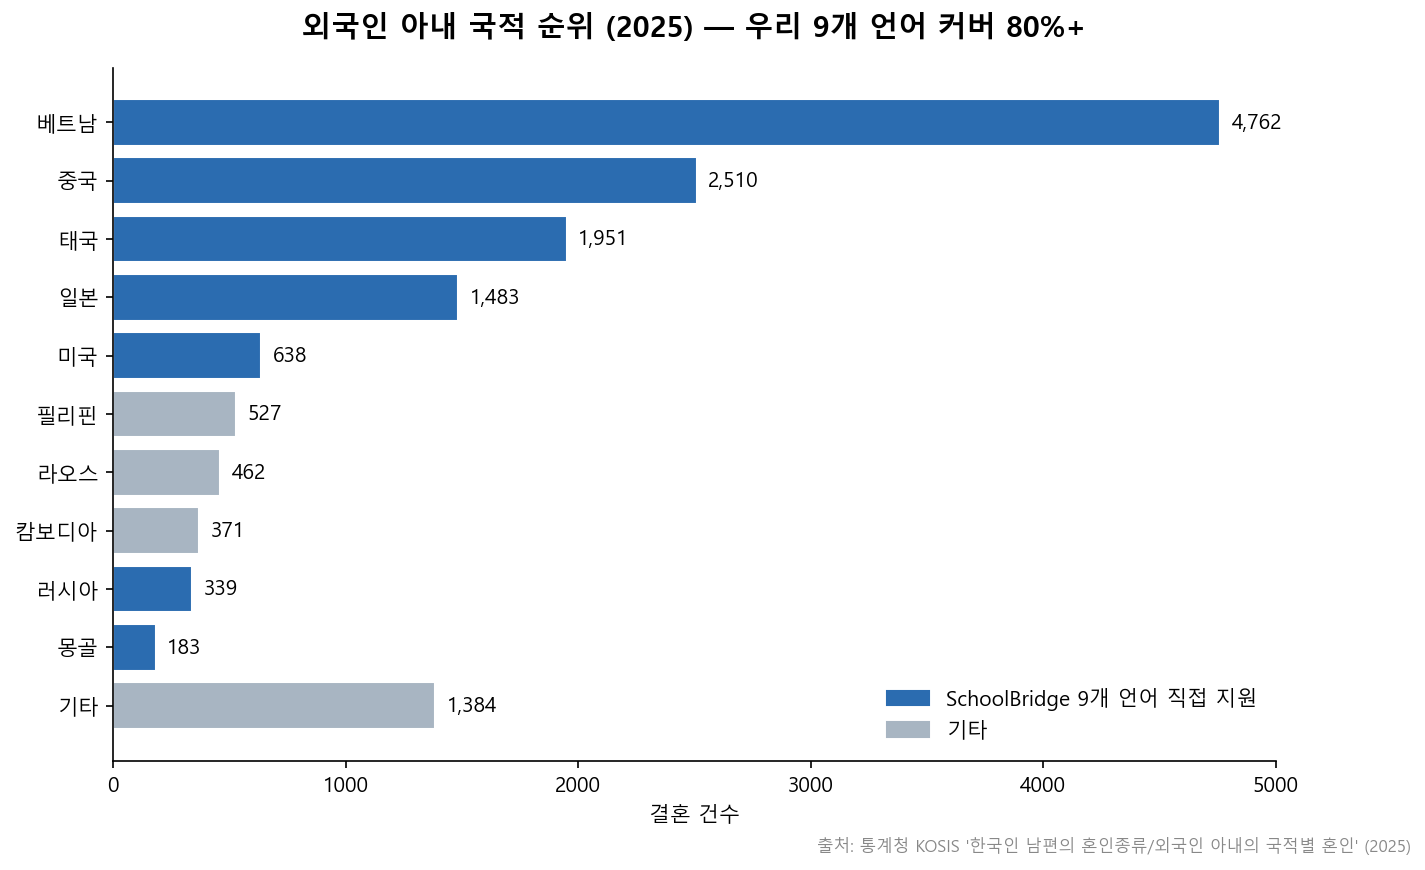
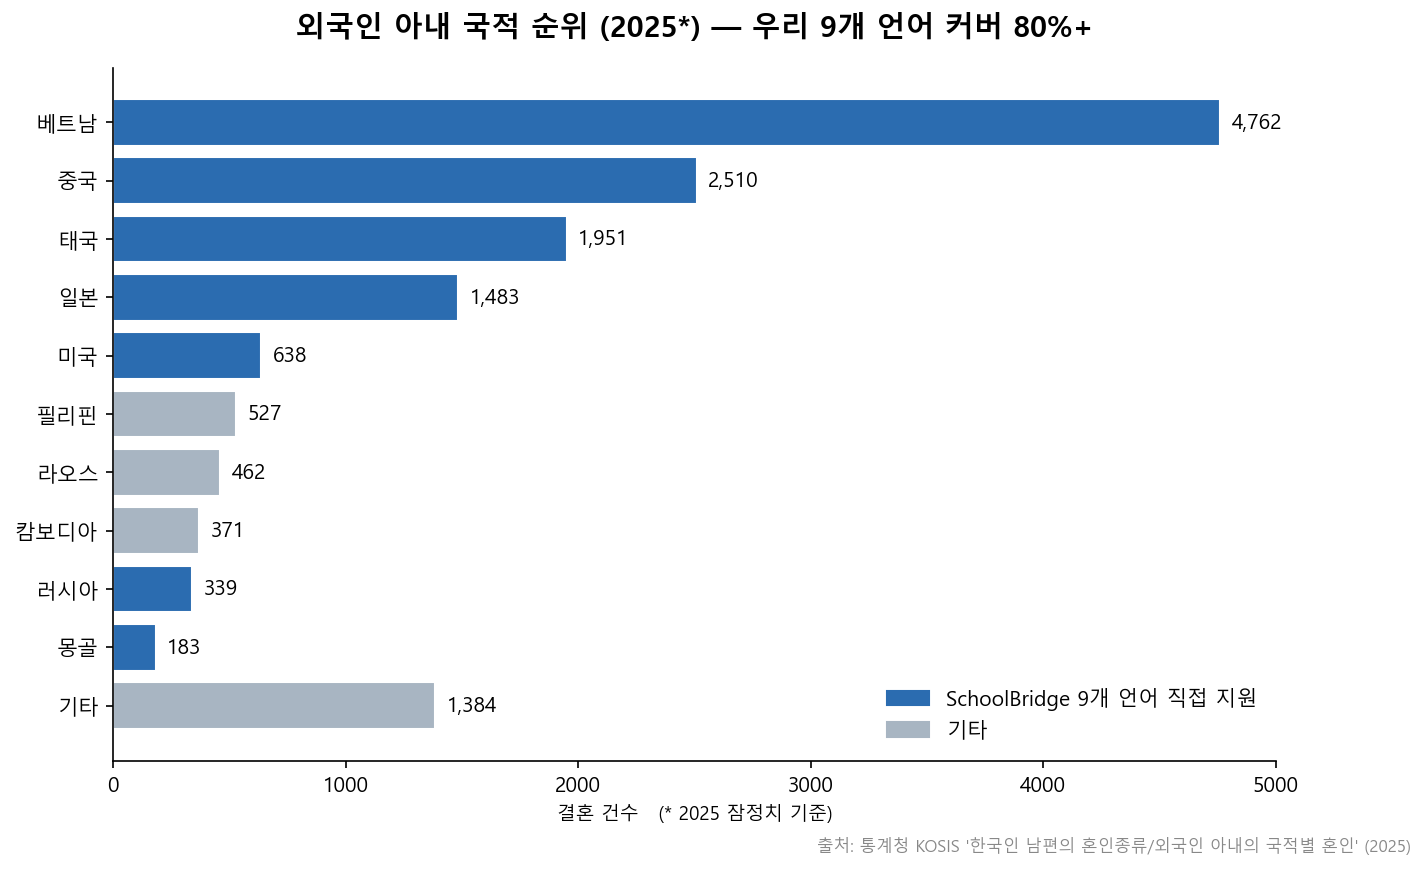
docs(graphs): 1·6·7번 그래프 가독성·균형 개선 + 2025 잠정치 표기
## 1번 결혼 추이
- figsize 10x5 → 11x5.5 (가로 여유)
- X축 라벨 30도 회전 + fontsize 9 (12개 라벨 겹침 해소)
- xlabel 단축 + 2025 잠정치 안내는 우상단 작은 footnote
- annotation 위치 조정 (코로나 화살표 5500, 회복 화살표 19000)
- ylim 위쪽 21000으로 확대 (회복 annotation 공간)

## 2번 국가 순위
- 제목/부제목에 "(2025*)" 잠정치 표시 추가

## 6번 시군구 격차 (TOP5 vs BOTTOM5)
- 막대 그래프 → 표 형식 (좌우 동일 폭 0.40, 가운데 점선 분리)
- 좌측: x=0.05~0.45 (헤더 0.25 가운데)
- 우측: x=0.55~0.95 (헤더 0.75 가운데)
- 가운데 870배 박스 → 하단 한 줄 강조 박스로 이동
- ax 영역 figure 전체 확장 (출처 우하단 정렬 위해)

## 7번 한국어 능력 4영역
- annotation 화살표 target xy=(2, 3.82) → (1.7, 3.50)
  (score 라벨이 막대 위 가운데에 있어 화살표가 가리던 문제 해결)

Changed region(s): [[0.2161, 0.0, 0.494, 0.0621], [0.5249, 0.0, 0.7719, 0.0621], [0.4014, 0.9, 0.5867, 0.9621]]

diff --git a/docs/graphs/generate_stats_graphs.py b/docs/graphs/generate_stats_graphs.py
@@ -63,27 +63,32 @@ def save(fig, name: str, source: str = ""):
 def chart_marriage_trend():
     years = [2014, 2015, 2016, 2017, 2018, 2019, 2020, 2021, 2022, 2023, 2024, 2025]
     counts = [16152, 14677, 14822, 14869, 16608, 17687, 11100, 8985, 12007, 14710, 15624, 15610]
-    fig, ax = plt.subplots(figsize=(10, 5))
+    fig, ax = plt.subplots(figsize=(11, 5.5))
     ax.plot(years, counts, marker="o", linewidth=2.5, color=PRIMARY, markersize=7)
     ax.fill_between(years, counts, alpha=0.10, color=PRIMARY)
     # 코로나 변곡점 강조
     ax.scatter([2020, 2021], [11100, 8985], s=120, color=ACCENT, zorder=5)
-    ax.annotate("코로나 급감\n(-49%)", xy=(2021, 8985), xytext=(2021.3, 6500),
+    ax.annotate("코로나 급감\n(-49%)", xy=(2021, 8985), xytext=(2021.5, 5500),
                 fontsize=10, color=ACCENT,
                 arrowprops=dict(arrowstyle="->", color=ACCENT))
-    ax.annotate("회복", xy=(2024, 15624), xytext=(2023.3, 17500),
+    ax.annotate("회복", xy=(2024, 15624), xytext=(2022.7, 19000),
                 fontsize=10, color=GREEN,
                 arrowprops=dict(arrowstyle="->", color=GREEN))
-    ax.set_title("한국인 남편 × 외국인 아내 결혼 추이 (2014~2025)",
+    ax.set_title("한국인 남편 × 외국인 아내 결혼 추이 (2014~2025*)",
                  fontsize=14, weight="bold", pad=15)
-    ax.set_xlabel("연도")
+    ax.set_xlabel("연도", fontsize=10)
     ax.set_ylabel("결혼 건수")
     ax.set_xticks(years)
-    ax.set_xticklabels([str(y) for y in years], rotation=0)
-    ax.set_ylim(bottom=0)
+    xtick_labels = [f"{y}*" if y == 2025 else str(y) for y in years]
+    ax.set_xticklabels(xtick_labels, rotation=30, ha="right", fontsize=9)
+    ax.set_ylim(0, 21000)  # 위쪽 여유 (회복 annotation용)
     ax.grid(True, alpha=0.3)
     ax.spines["top"].set_visible(False)
     ax.spines["right"].set_visible(False)
+    # 잠정치 안내 — 그래프 영역 우상단 작은 텍스트
+    ax.text(0.02, 0.97, "* 2025: 잠정치 (확정치는 2026년 8~9월 공표 예정)",
+            transform=ax.transAxes, ha="left", va="top",
+            fontsize=8, color="#888", style="italic")
     save(fig, "1_marriage_trend",
          source="통계청 KOSIS '한국인 남편의 혼인종류/외국인 아내의 국적별 혼인' (2014~2025)")
 
@@ -113,9 +118,9 @@ def chart_country_ranking():
     for bar, count in zip(bars, counts):
         ax.text(bar.get_width() + 50, bar.get_y() + bar.get_height()/2,
                 f"{count:,}", va="center", fontsize=10)
-    ax.set_title("외국인 아내 국적 순위 (2025) — 우리 9개 언어 커버 80%+",
+    ax.set_title("외국인 아내 국적 순위 (2025*) — 우리 9개 언어 커버 80%+",
                  fontsize=14, weight="bold", pad=15)
-    ax.set_xlabel("결혼 건수")
+    ax.set_xlabel("결혼 건수   (* 2025 잠정치 기준)", fontsize=9)
     ax.spines["top"].set_visible(False)
     ax.spines["right"].set_visible(False)
     # 범례
@@ -238,71 +243,82 @@ def chart_region_distribution():
          source="한국교육개발원 KESS '행정구역별 다문화(유형별) 학생수' (초등학교, 2025)")
 
 
-# ── 6. TOP5 vs BOTTOM5 — 시군구 다문화 학생 격차 ────────────────
+# ── 6. TOP5 vs BOTTOM5 — 시군구 다문화 학생 격차 (표 형식) ───────
 def chart_hotspot_paradox():
-    fig, axes = plt.subplots(1, 2, figsize=(13, 5.5))
+    fig, ax = plt.subplots(figsize=(11, 5.8))
+    ax.set_xlim(0, 1)
+    ax.set_ylim(0, 1)
+    ax.axis("off")
 
-    # TOP 5 (많은 곳, 핫스팟)
+    # TOP 5 (많은 곳)
     top5 = [
-        ("경기 화성시", 2718),
-        ("경기 수원시", 2765),
-        ("경기 부천시", 2942),
-        ("경기 시흥시", 3368),
         ("경기 안산시", 5205),
+        ("경기 시흥시", 3368),
+        ("경기 부천시", 2942),
+        ("경기 수원시", 2765),
+        ("경기 화성시", 2718),
     ]
-    # BOTTOM 5 (적은 곳, 소외)
+    # BOTTOM 5 (적은 곳)
     bottom5 = [
-        ("강원 양양군", 45),
-        ("경기 과천시", 39),
-        ("대구 군위군", 38),
-        ("인천 옹진군", 13),
         ("경북 울릉군", 6),
+        ("인천 옹진군", 13),
+        ("대구 군위군", 38),
+        ("경기 과천시", 39),
+        ("강원 양양군", 45),
     ]
 
-    # 좌측 — TOP 5 (학생 많은 곳)
-    ax1 = axes[0]
-    labels1 = [d[0] for d in top5]
-    values1 = [d[1] for d in top5]
-    bars1 = ax1.barh(labels1, values1, color=ACCENT, edgecolor="white", linewidth=1.5)
-    for bar, val in zip(bars1, values1):
-        ax1.text(bar.get_width() + 80, bar.get_y() + bar.get_height()/2,
-                 f"{val:,}명", va="center", fontsize=11, weight="bold", color=ACCENT)
-    ax1.set_xlim(0, 6500)
-    ax1.set_title("다문화 학생 많은 곳 TOP 5",
-                  fontsize=13, weight="bold", color=ACCENT, pad=12, loc="left")
-    ax1.spines["top"].set_visible(False)
-    ax1.spines["right"].set_visible(False)
-    ax1.spines["bottom"].set_visible(False)
-    ax1.tick_params(axis="x", labelsize=9, colors="#666")
-    ax1.tick_params(axis="y", labelsize=10)
-    ax1.grid(True, alpha=0.3, axis="x")
+    # 상단 제목
+    ax.text(0.5, 0.95, "시군구별 다문화 초등학생 격차 (2025)",
+            ha="center", fontsize=15, weight="bold", color="#222")
 
-    # 우측 — BOTTOM 5 (학생 적은 곳)
-    ax2 = axes[1]
-    labels2 = [d[0] for d in bottom5]
-    values2 = [d[1] for d in bottom5]
-    bars2 = ax2.barh(labels2, values2, color=PRIMARY, edgecolor="white", linewidth=1.5)
-    for bar, val in zip(bars2, values2):
-        ax2.text(bar.get_width() + 80, bar.get_y() + bar.get_height()/2,
-                 f"{val}명", va="center", fontsize=11, weight="bold", color=PRIMARY)
-    ax2.set_xlim(0, 6500)
-    ax2.set_title("다문화 학생 적은 곳 BOTTOM 5",
-                  fontsize=13, weight="bold", color=PRIMARY, pad=12, loc="left")
-    ax2.spines["top"].set_visible(False)
-    ax2.spines["right"].set_visible(False)
-    ax2.spines["bottom"].set_visible(False)
-    ax2.tick_params(axis="x", labelsize=9, colors="#666")
-    ax2.tick_params(axis="y", labelsize=10)
-    ax2.grid(True, alpha=0.3, axis="x")
+    # 좌우 영역 동일 폭 (각 0.40, 가운데 0.10 여백)
+    # 좌측: x = 0.05 ~ 0.45 (헤더 가운데 0.25)
+    # 우측: x = 0.55 ~ 0.95 (헤더 가운데 0.75)
 
-    # 전체 제목 + 하단 메시지 (단순 데이터 사실만)
-    fig.suptitle("시군구별 다문화 초등학생 격차 (2025) — 안산 5,205명 vs 울릉 6명, 약 870배",
-                 fontsize=14, weight="bold", y=0.99)
-    fig.text(0.5, 0.08,
+    # 좌측 표 헤더 (TOP 5)
+    ax.text(0.25, 0.84, "다문화 학생 많은 곳 TOP 5",
+            ha="center", fontsize=12, weight="bold", color=ACCENT)
+    # 좌측 표 행
+    for i, (name, count) in enumerate(top5):
+        y = 0.74 - i * 0.085
+        ax.text(0.08, y, f"{i+1}", ha="center", fontsize=11, weight="bold", color="#999")
+        ax.text(0.13, y, name, ha="left", fontsize=11.5, color="#222")
+        ax.text(0.43, y, f"{count:,}명", ha="right", fontsize=12, weight="bold", color=ACCENT)
+    # 좌측 합계
+    top_sum = sum(c for _, c in top5)
+    ax.plot([0.05, 0.45], [0.30, 0.30], color="#CCC", linewidth=1)
+    ax.text(0.13, 0.24, "TOP 5 합계", ha="left", fontsize=10, color="#666")
+    ax.text(0.43, 0.24, f"{top_sum:,}명", ha="right", fontsize=11, weight="bold", color=ACCENT)
+
+    # 가운데 세로 분리선
+    ax.plot([0.50, 0.50], [0.20, 0.78], color="#DDD", linewidth=1, linestyle="--")
+
+    # 우측 표 헤더 (BOTTOM 5)
+    ax.text(0.75, 0.84, "다문화 학생 적은 곳 BOTTOM 5",
+            ha="center", fontsize=12, weight="bold", color=PRIMARY)
+    # 우측 표 행
+    for i, (name, count) in enumerate(bottom5):
+        y = 0.74 - i * 0.085
+        ax.text(0.58, y, f"{i+1}", ha="center", fontsize=11, weight="bold", color="#999")
+        ax.text(0.63, y, name, ha="left", fontsize=11.5, color="#222")
+        ax.text(0.93, y, f"{count}명", ha="right", fontsize=12, weight="bold", color=PRIMARY)
+    # 우측 합계
+    bot_sum = sum(c for _, c in bottom5)
+    ax.plot([0.55, 0.95], [0.30, 0.30], color="#CCC", linewidth=1)
+    ax.text(0.63, 0.24, "BOTTOM 5 합계", ha="left", fontsize=10, color="#666")
+    ax.text(0.93, 0.24, f"{bot_sum}명", ha="right", fontsize=11, weight="bold", color=PRIMARY)
+
+    # 하단 강조 — 격차 한 줄
+    fig.text(0.5, 0.13,
+             "안산 5,205명 vs 울릉 6명  →  약 870배 격차",
+             ha="center", fontsize=14, color="#222", weight="bold",
+             bbox=dict(boxstyle="round,pad=0.5", fc="#FFF5F0", ec=ACCENT, lw=1.5))
+    # 그 아래 — 조심스러운 보조 멘트
+    fig.text(0.5, 0.05,
              "전국 시군구 간 다문화 학생 분포 매우 불균등 — 작은 지역일수록 행정·교육 자원 격차 가능성",
-             ha="center", fontsize=10.5, color="#444", style="italic")
-
-    plt.subplots_adjust(left=0.10, right=0.97, top=0.85, bottom=0.22, wspace=0.45)
+             ha="center", fontsize=10, color="#666", style="italic")
+    # ax 영역을 figure 전체로 확장 — 출처(우하단)와 그래프 끝 정렬
+    plt.subplots_adjust(left=0.02, right=0.98, top=0.98, bottom=0.02)
     save(fig, "6_hotspot_paradox",
          source="한국교육개발원 KESS '행정구역별 다문화(유형별) 학생수' (초등학교, 2025) 시군구 단위")
 
@@ -329,8 +345,9 @@ def chart_korean_ability():
     ax.spines["top"].set_visible(False)
     ax.spines["right"].set_visible(False)
     # 강조 텍스트 — 막대 위 빈 공간(top-left)에 박스로 배치, 어두운 텍스트로 가독성 확보
+    # 화살표 target 은 막대의 좌측 모서리 (score 라벨이 막대 위 가운데에 있어서 가운데 가리키면 가림)
     ax.annotate("가정통신문은 '읽기' 영역\n→ 결혼이민자가 가장 약함",
-                xy=(2, 3.82), xytext=(0.0, 5.05),
+                xy=(1.7, 3.50), xytext=(0.0, 5.05),
                 fontsize=10.5, color="#222", weight="bold", ha="left",
                 arrowprops=dict(arrowstyle="->", color=ACCENT, lw=1.8),
                 bbox=dict(boxstyle="round,pad=0.45", fc="#FFF5F0",
